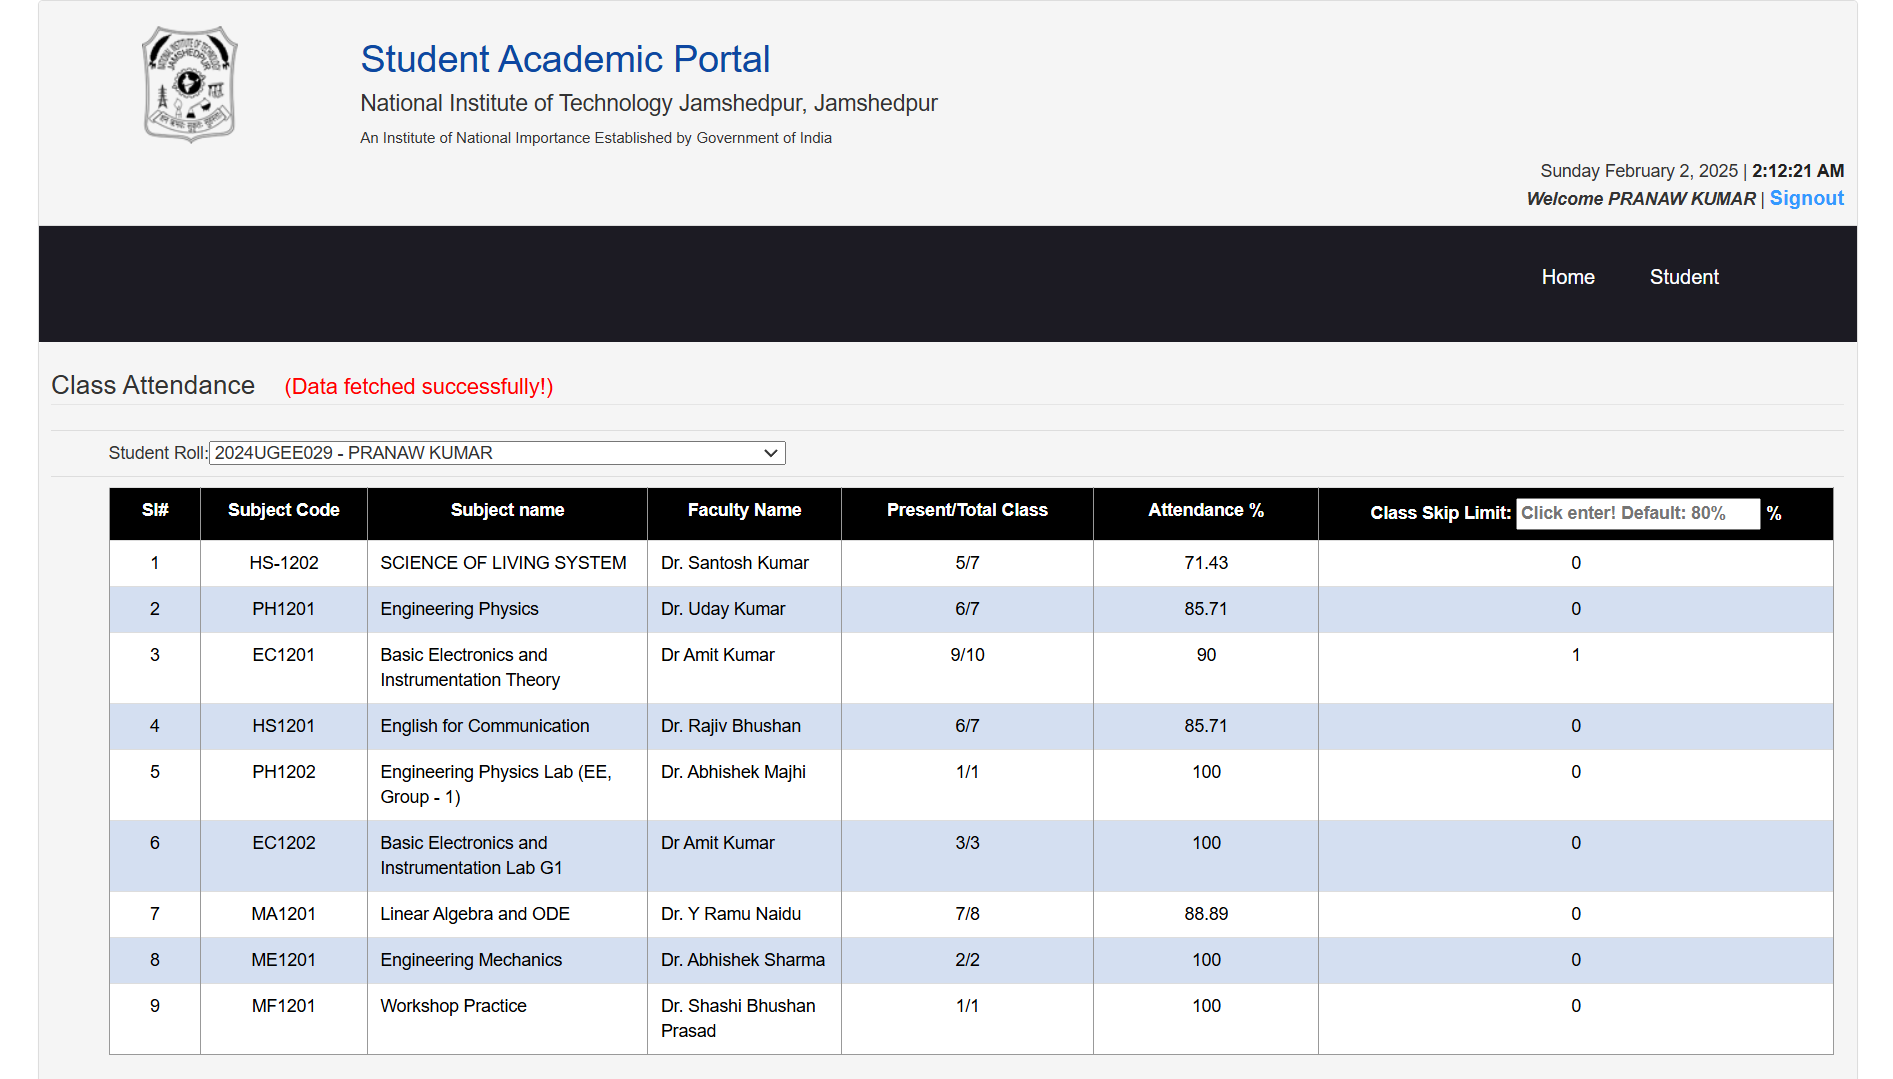
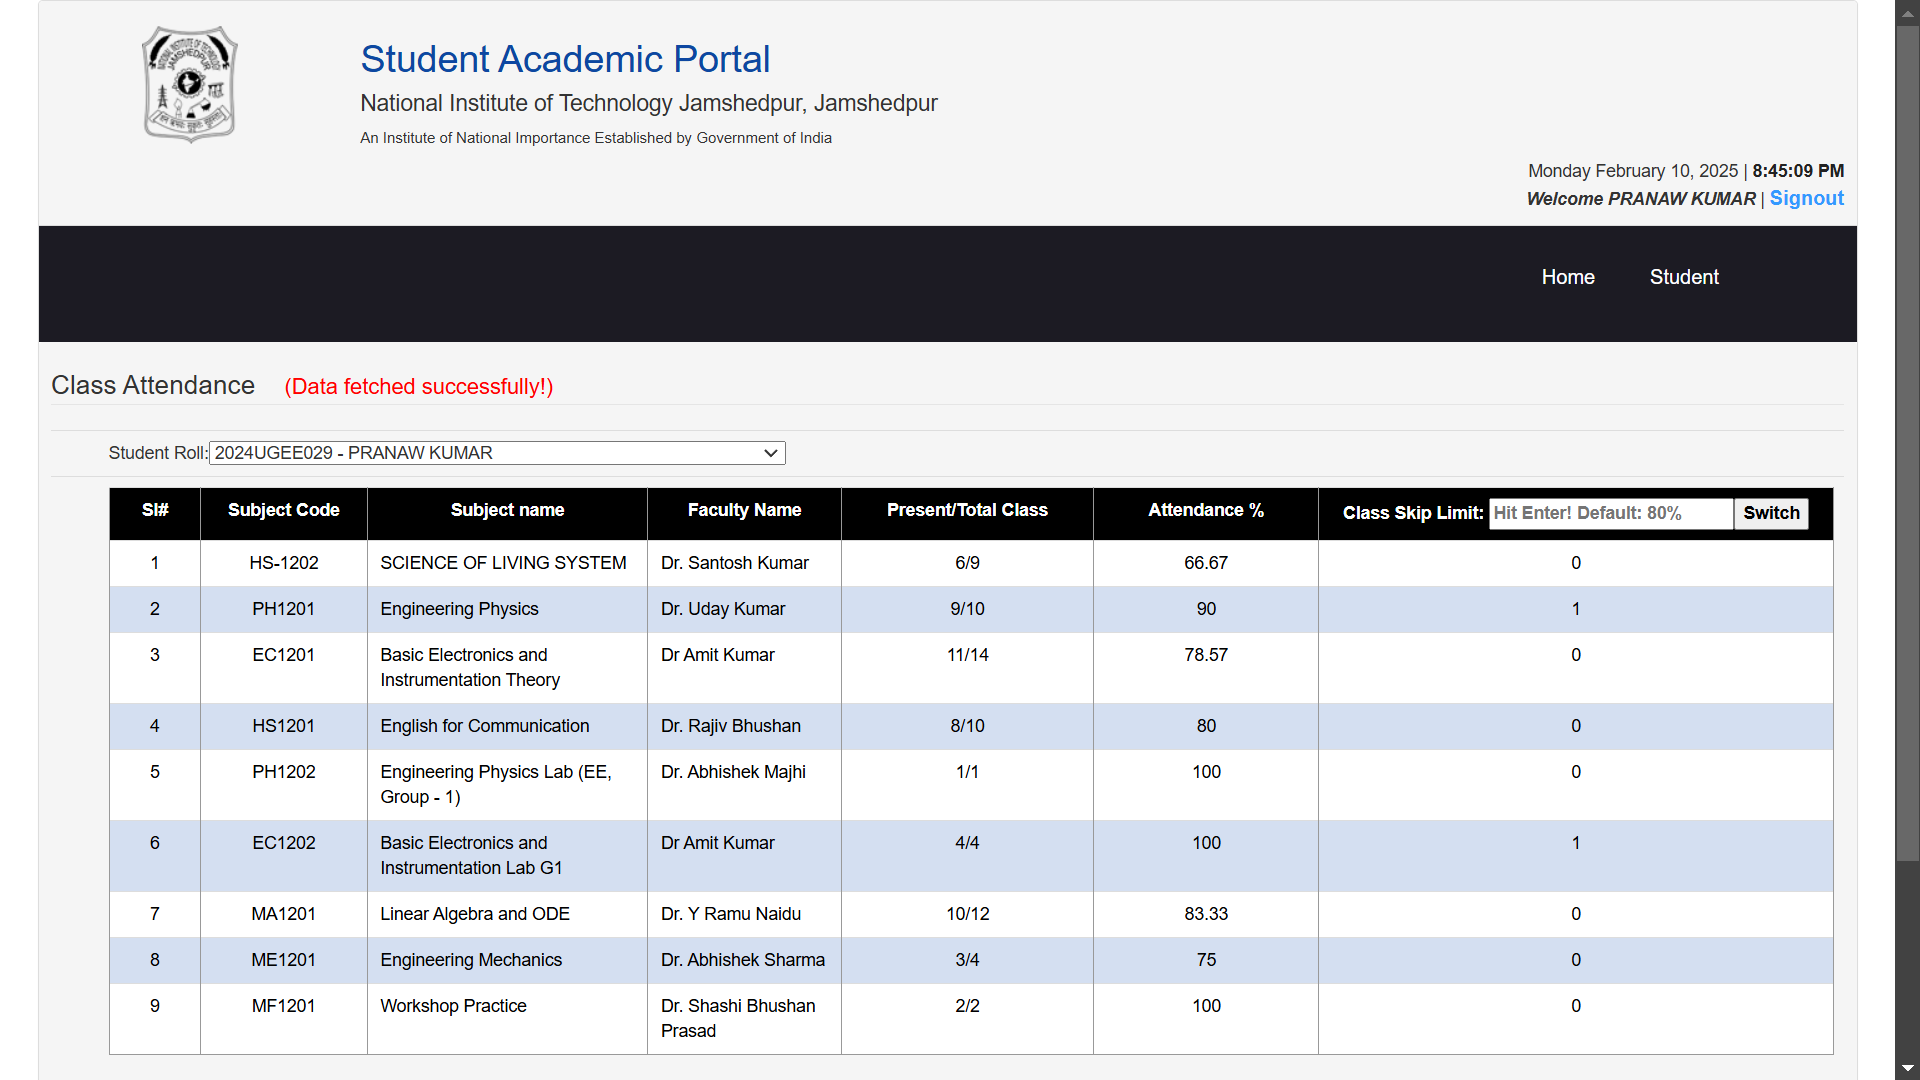
Update ReadMe

diff --git a/README.md b/README.md
@@ -39,9 +39,18 @@ That's it!
 <li>You can choose any desired Class Skip Limit!</li>
 <li>Changed the boring static clock on the website.</li>
 </ul>
+
+<h3>v1.3 (10/02/25)</h3>
+<ul>
+<li>You can now check how many classes are required to cross your desired attendance (by default: 75%)</li>
+<li>Added an icon for the extension.</li>
+<li>Updated the PopUp window.</li>
+</ul>
 <hr>
 <img src = "images/default.png">
 <br>
 <img src = "images/selecting.png">
 <br>
 <img src = "images/final.png">
+<br>
+<img src = "images/newFeature.png">
